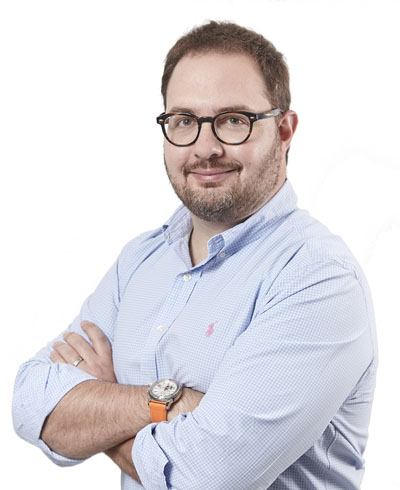
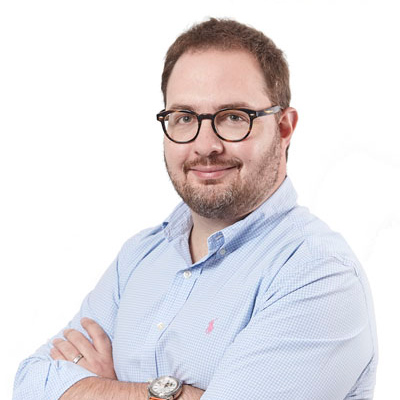
line breaks and image edits

diff --git a/src/components/HeroWithIcons.svelte b/src/components/HeroWithIcons.svelte
@@ -10,8 +10,8 @@
 <section class="relative bg-white py-12 md:py-14 lg:py-16">
 	<div class="mx-auto max-w-md px-4 text-center sm:max-w-3xl sm:px-6 lg:max-w-6xl lg:px-8">
 		<p class="mt-2 font-extralight text-3xl sm:text-4xl">
-			<span class="leading-tight">Every day, extraordinary people worldwide are creating unprecedented solutions, known as deep
-			or emerging technologies, to solve the world's greatest challenges, including:</span>
+			<span class="leading-tight">Every day, extraordinary people worldwide are creating <span class="lg:block">unprecedented solutions, known as deep
+			or emerging technologies, </span><span class="lg:block">to solve the world's greatest challenges, including:</span></span>
 		</p>
 		<div class="mt-12">
 			<div class="grid grid-cols-1 gap-8 sm:grid-cols-2 lg:grid-cols-3">

diff --git a/src/components/Profiles.svelte b/src/components/Profiles.svelte
@@ -10,8 +10,8 @@
 					IDL Team
 				</h2>
 				<p class="mt-8 pb-8 text-2xl text-gray-500">
-					Team with international recognition and extensive executive expertise in
-					internationalization, deep tech investments and development.
+					Team with international recognition and extensive executive expertise <span class="lg:block">in
+					internationalization, deep tech investments and development.</span>
 				</p>
 				<h2 class="text-2xl font-black tracking-tight">Strategy</h2>
 			</div>
@@ -227,7 +227,7 @@
 				</li>
 				<li>
 					<Profile
-						profileImage="./alexandre_grenteski.png"
+						profileImage="./alexandre_grenteski.jpg"
 						url="https://www.linkedin.com/in/alexandregrenteski/"
 						name="Alexandre Grenteski"
 						role="Corporate Innovation"

diff --git a/src/components/ContentHeroAlt.svelte b/src/components/ContentHeroAlt.svelte
@@ -1,3 +1,7 @@
+<script>
+	import IDL from './../images/IDL-Ignition_Logo_RGB_72.png';
+</script>
+
 <section class="bg-idl-gray-lighter overflow-hidden py-12 md:py-14 lg:py-16">
 	<div class="relative max-w-7xl mx-auto px-4 sm:px-6 lg:px-8">
 		<div class="relative">
@@ -7,7 +11,7 @@
 						IDL Ventures (Chicago) + Ignition Capital (NY)<br>
 Joined Forces to Create a Joint Venture Fund
 					</p>
-					<p class="text-6xl font-light">IDL IGNITION</p>
+					<img class="h-20 mt-4 mx-auto" src="{IDL}" alt="IDL IGNITION">
 				</div>
 			</blockquote>
 		</div>

diff --git a/src/components/ContentWithImage.svelte b/src/components/ContentWithImage.svelte
@@ -17,8 +17,8 @@
 	>
 		<div class="lg:col-start-1">
 			<div class="text-base max-w-prose mx-auto lg:max-w-lg lg:mr-4 lg:ml-0 grid gap-10">
-				<h3 class="mt-2 leading-8 font-bold text-white sm:text-4xl md:text-2xl lg:text-4xl">
-					IDL Venture's <br>INTERNATIONALIZATION <br>PLATFORM
+				<h3 class="mt-2 leading-8 font-bold text-white text-4xl">
+					IDL Venture's PLATFORM
 				</h3>
 				<div class="text-white flex flex-col md:flex-row gap-10">
 					<p class="flex flex-col">
